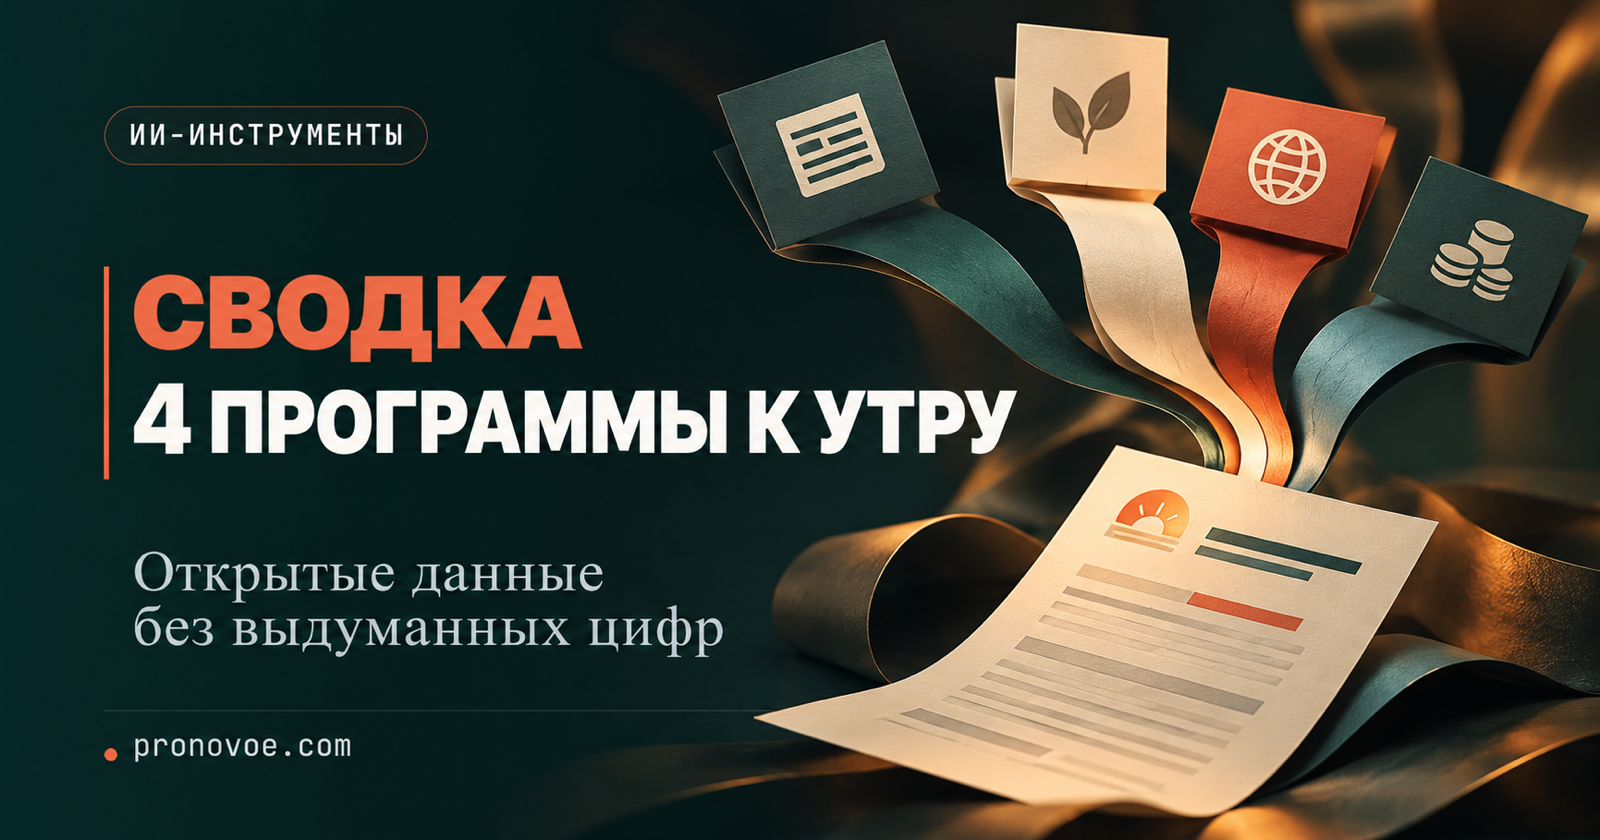
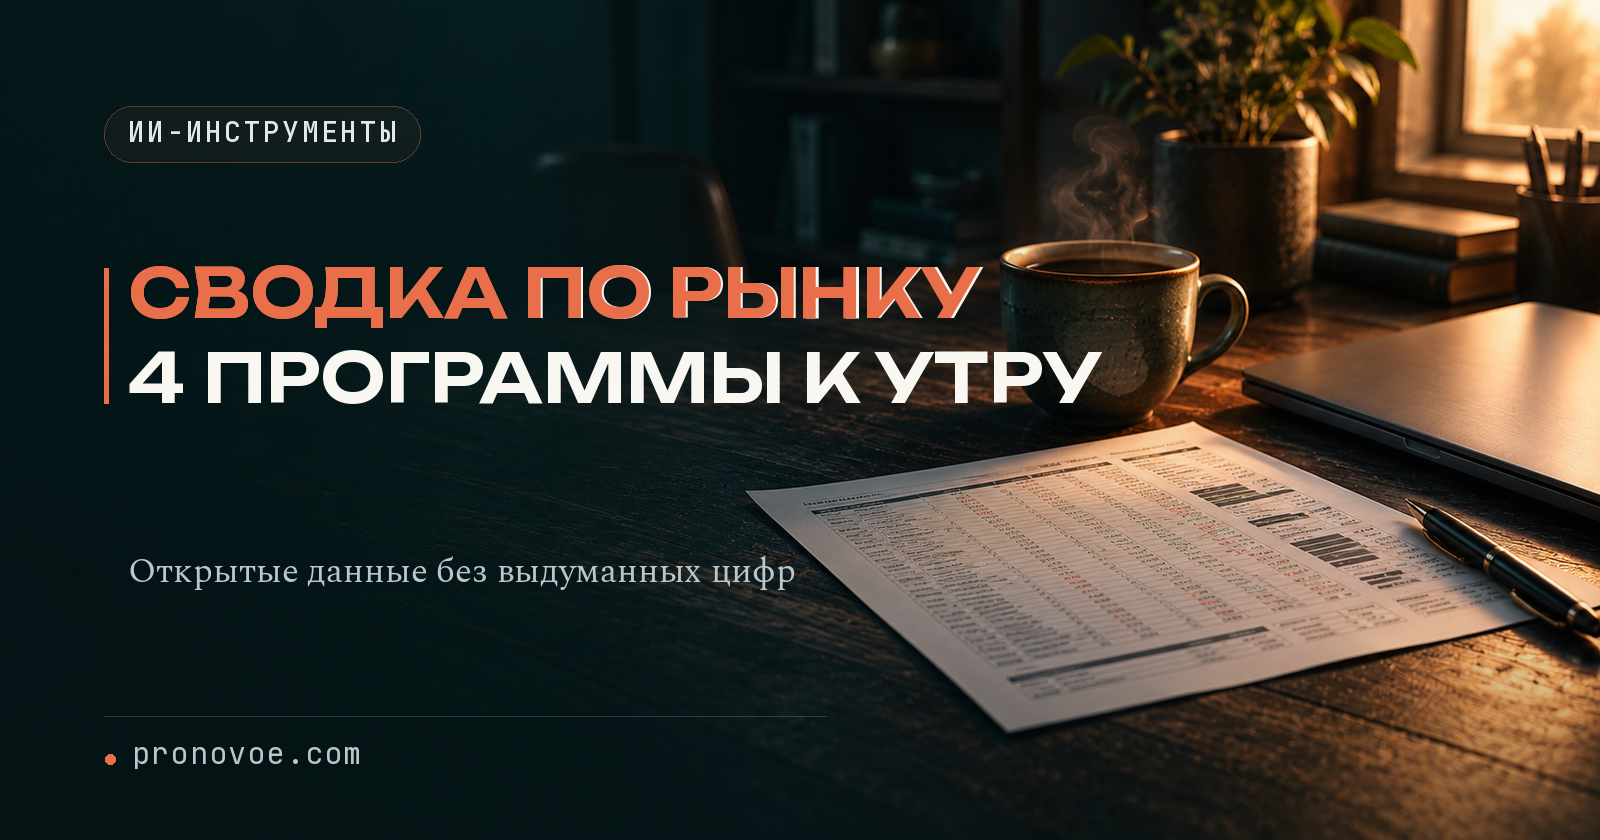
Статья СВОДКА: новая фотографическая обложка

diff --git a/claude-ai/utrennyaya-svodka-po-rynku/index.html b/claude-ai/utrennyaya-svodka-po-rynku/index.html
@@ -19,7 +19,7 @@
 <meta property="og:description" content="Как собрать утреннюю сводку по рынку из четырёх программ: подачи SEC, цены Alpha Vantage, отчётность за 14 дней и честный список пропусков" />
 <meta property="og:url" content="https://pronovoe.com/claude-ai/utrennyaya-svodka-po-rynku/" />
 <meta property="og:image" content="https://pronovoe.com/claude-ai/utrennyaya-svodka-po-rynku/assets/oblozhka.webp" />
-<meta property="og:image:alt" content="Утренняя сводка по рынку" />
+<meta property="og:image:alt" content="Обложка «Сводка по рынку. 4 программы к утру»: распечатанная сводка на тёмном столе утром" />
 <meta property="og:image:width" content="1600" />
 <meta property="og:image:height" content="840" />
 <meta property="article:published_time" content="2026-10-18" />
@@ -29,7 +29,7 @@
 <meta name="twitter:title" content="Утренняя сводка по рынку: 4 программы без выдумок" />
 <meta name="twitter:description" content="Как собрать утреннюю сводку по рынку из четырёх программ: подачи SEC, цены Alpha Vantage, отчётность за 14 дней и честный список пропусков" />
 <meta name="twitter:image" content="https://pronovoe.com/claude-ai/utrennyaya-svodka-po-rynku/assets/oblozhka.webp" />
-<meta name="twitter:image:alt" content="Утренняя сводка по рынку" />
+<meta name="twitter:image:alt" content="Обложка «Сводка по рынку. 4 программы к утру»: распечатанная сводка на тёмном столе утром" />
 
 <link rel="preload" href="/assets/fonts/unbounded-700.woff2" as="font" type="font/woff2" crossorigin>
 <link rel="preload" href="/assets/fonts/spectral-400.woff2" as="font" type="font/woff2" crossorigin>
@@ -1386,10 +1386,10 @@ html { scroll-padding-bottom: calc(var(--cookie-height, 0px) + 16px) }
 </div></div></div></header>
 <div class="page-shell"><nav class="toc" aria-label="Содержание"><p class="toc-label">В статье</p><a href="#virusnoe-obeshchanie">Что не сходится в вирусном обещании</a><a href="#skhema">Схема из четырёх программ</a><a href="#ustanovka">Как собрать сводку</a><a href="#kod">Код четырёх программ</a><a href="#raspisanie">Расписание на будни</a><a href="#chto-lomaetsya">Что ломается</a><a href="#faq">Частые вопросы</a></nav><main><article>
 <nav class="breadcrumbs" aria-label="Хлебные крошки"><ol><li><a href="/">Главная</a></li><li><span aria-current="page">Утренняя сводка по рынку: 4 программы без выдумок</span></li></ol></nav>
-<header id="nachalo"><figure class="cover cover-v2"><img src="assets/oblozhka.webp" width="1600" height="840" alt="Четыре потока открытых данных сходятся в утреннюю сводку" loading="eager" decoding="async" fetchpriority="high"><figcaption>Четыре программы собирают одну утреннюю сводку и отдельно называют пропуски</figcaption></figure>
+<header id="nachalo"><figure class="cover cover-v2"><img src="assets/oblozhka.webp" width="1600" height="840" alt="Обложка «Сводка по рынку. 4 программы к утру»: распечатанная сводка на тёмном столе утром" loading="eager" decoding="async" fetchpriority="high"><figcaption>Четыре программы собирают одну утреннюю сводку и отдельно называют пропуски</figcaption></figure>
 <h1 class="article-standard-h1">Утренняя сводка по рынку: 4 программы без выдумок</h1>
 <p class="uroven-metka green" style="display:inline-block;margin:16px 0 0;padding:5px 12px;border-radius:999px;background:var(--guide-color-success-paper);color:var(--guide-color-success-ink);font:700 13px/1.3 -apple-system,BlinkMacSystemFont,&quot;Segoe UI&quot;,Arial,sans-serif">Средний уровень</p>
-<p class="lead">У вирусного «Bloomberg на роботах» есть одна деталь, после которой обещанная экономия перестаёт быть готовым рецептом. Рабочая версия проще: три программы сохраняют подачи SEC, цену и объём, число форм 10-Q и 8-K за 14 дней. Четвёртая не ходит в сеть, читает три JSON-файла и пишет <code>SVODKA.txt</code>. Если источник отказал, в отчёте остаётся строка «нет цены», а не придуманное число</p>
+<p class="lead">Статья разработчика Roan в X набрала больше 2 млн просмотров: он собрал на ботах замену терминалу Bloomberg, которым пользуются трейдеры, и пишет, что вышло в 9 раз дешевле. У вирусного «Bloomberg на роботах» есть одна деталь, после которой обещанная экономия перестаёт быть готовым рецептом. Рабочая версия проще: три программы сохраняют подачи SEC, цену и объём, число форм 10-Q и 8-K за 14 дней. Четвёртая не ходит в сеть, читает три JSON-файла и пишет <code>SVODKA.txt</code>. Если источник отказал, в отчёте остаётся строка «нет цены», а не придуманное число</p>
 <div class="quick-answer"><p>Короткий путь: открой Терминал → <a href="#ustanovka">вставь команды из шагов 1-3</a> → увидишь сводку</p></div>
 <section id="bystryy-start">
 <h2>Быстрый старт</h2>
